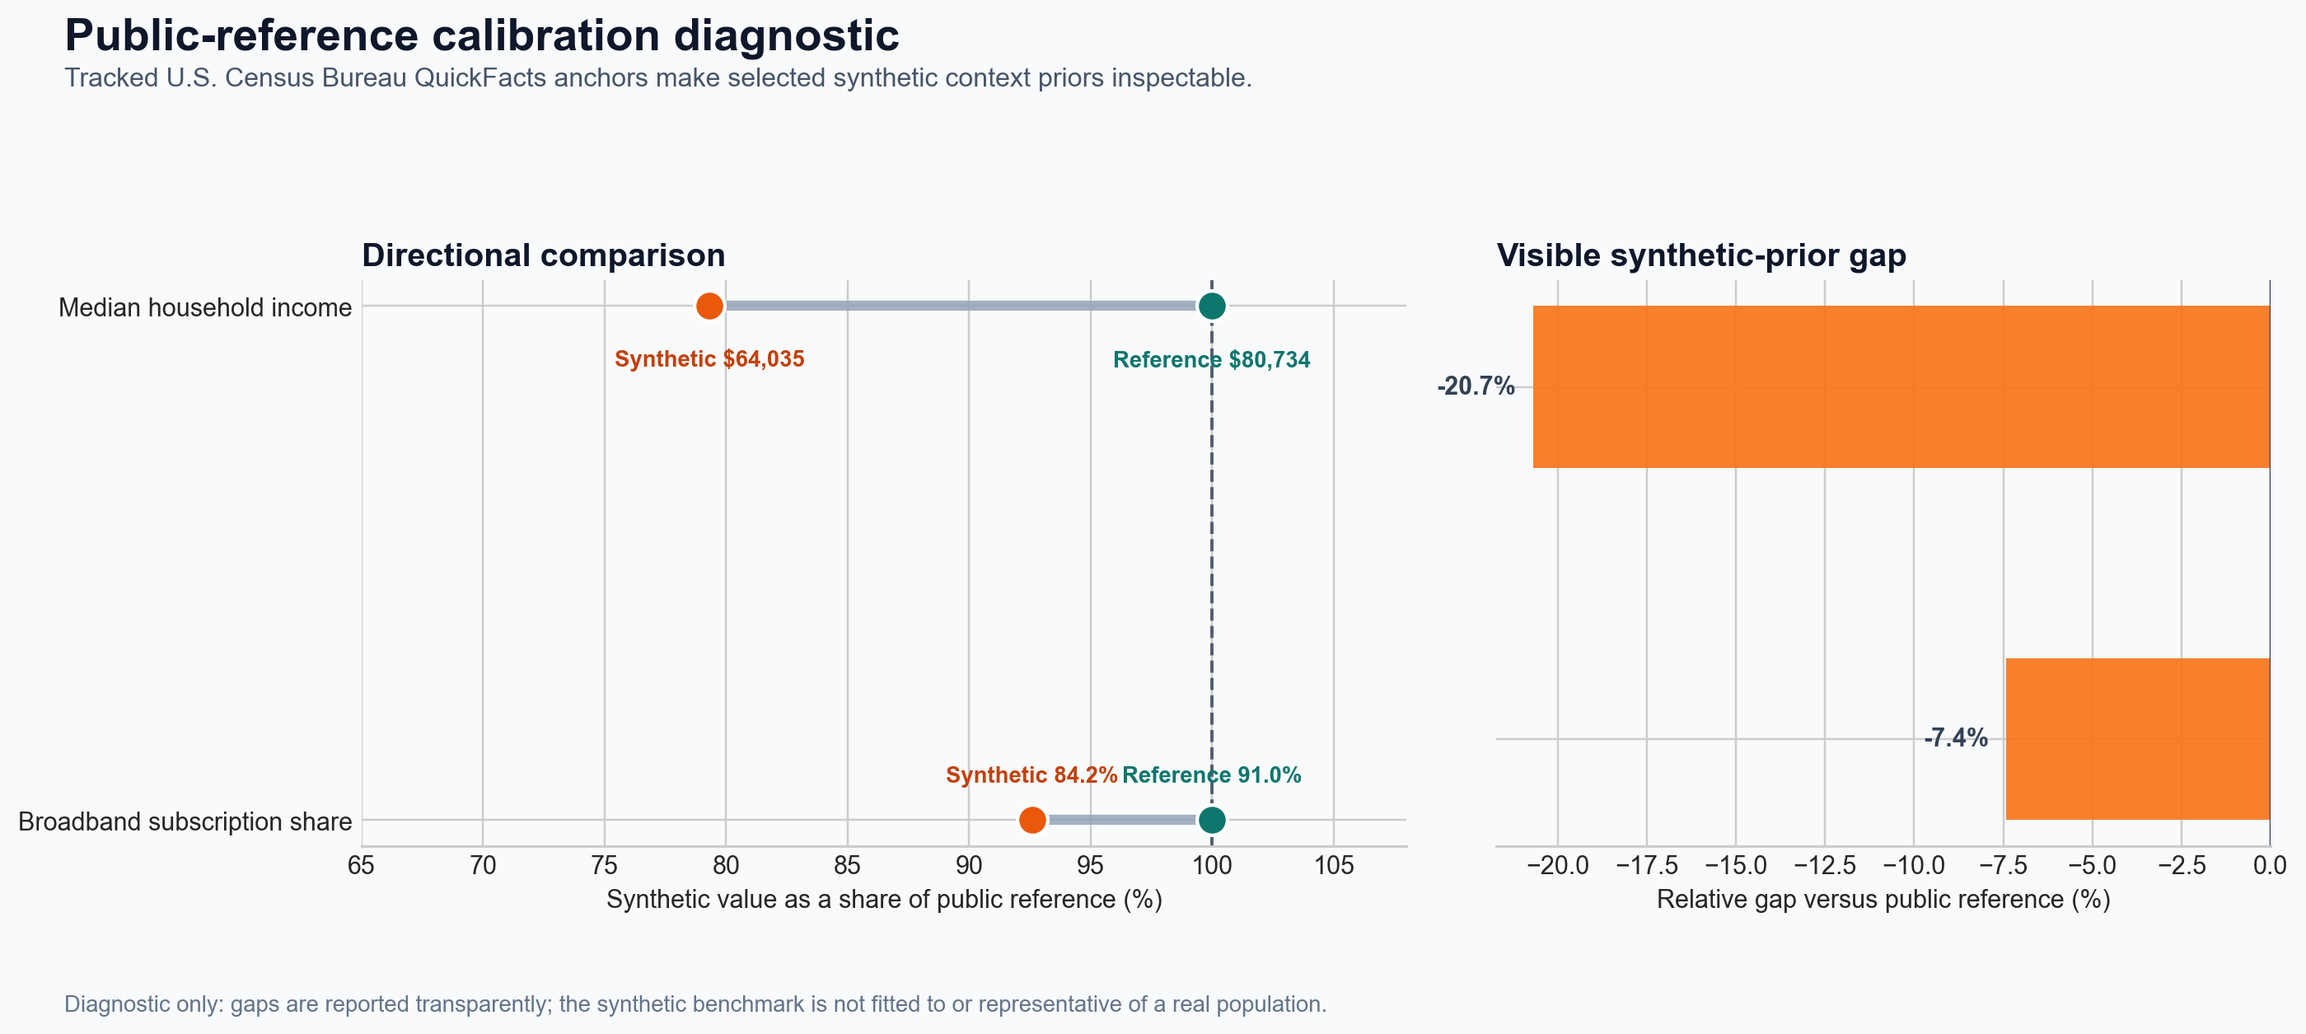
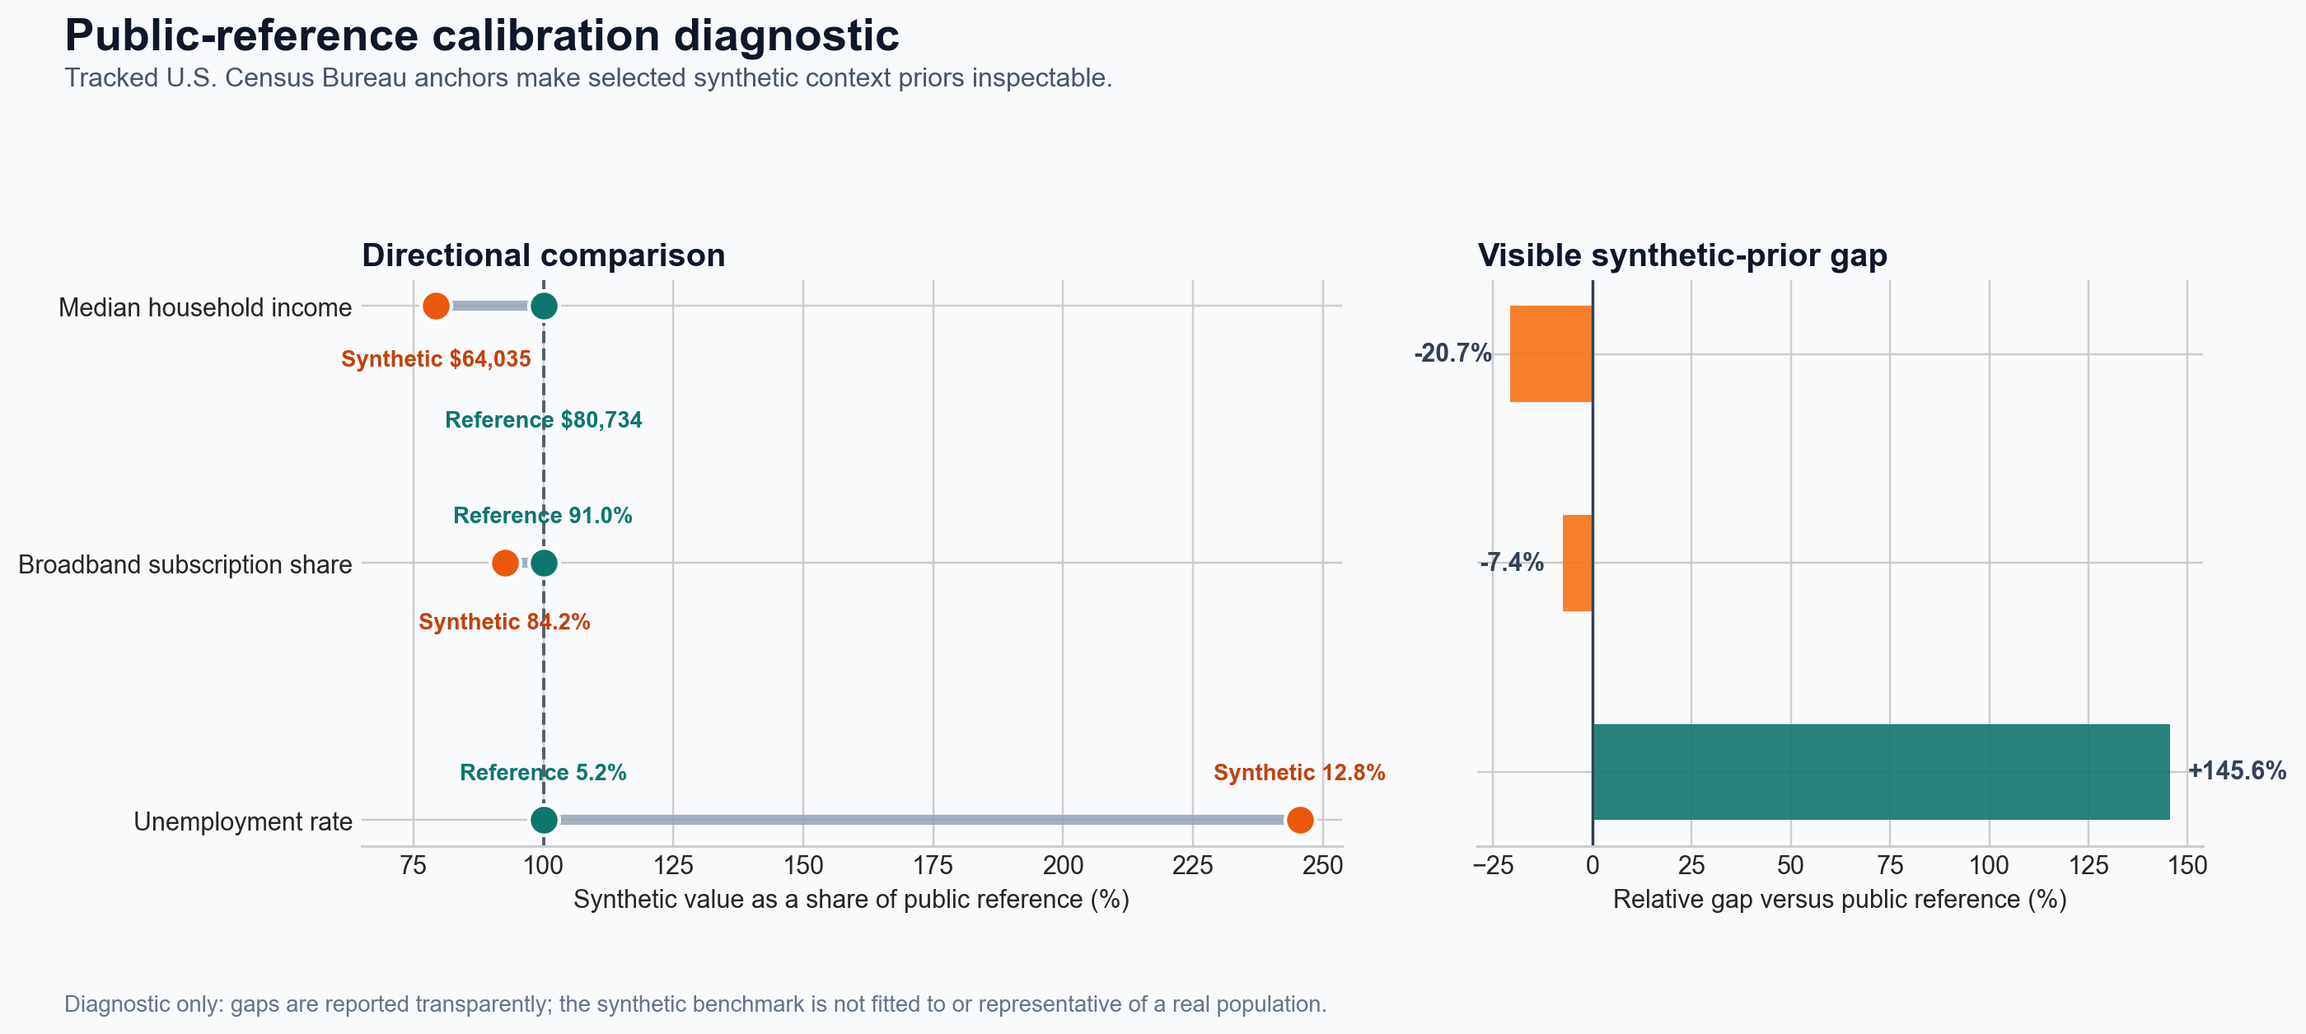
Expand public-reference calibration coverage
Add a third versioned Census Bureau anchor and expose synthetic-prior gaps transparently.

diff --git a/tests/test_public_reference_calibration.py b/tests/test_public_reference_calibration.py
@@ -35,6 +35,19 @@ def _targets() -> pd.DataFrame:
                 "retrieved_on": "2026-05-31",
                 "notes": "test target",
             },
+            {
+                "metric": "unemployment_rate",
+                "display_name": "Unemployment rate",
+                "synthetic_column": "unemployment_rate",
+                "aggregation": "population_weighted_mean",
+                "reference_value": 0.052,
+                "unit": "share",
+                "source_name": "U.S. Census Bureau ACS 5-Year Data Profile DP03",
+                "source_period": "2020-2024",
+                "source_url": "https://data.census.gov/table/example",
+                "retrieved_on": "2026-06-01",
+                "notes": "test target",
+            },
         ]
     )
 
@@ -45,6 +58,7 @@ def _communities() -> pd.DataFrame:
             "population": [1, 3],
             "median_income": [50000, 70000],
             "broadband_access": [0.60, 1.00],
+            "unemployment_rate": [0.04, 0.08],
         }
     )
 
@@ -54,6 +68,35 @@ def test_population_weighted_mean() -> None:
         [10, 20],
         [1, 3],
     ) == pytest.approx(17.5)
+
+
+def test_load_public_reference_targets_accepts_documented_census_sources(
+    tmp_path: Path,
+) -> None:
+    targets_path = tmp_path / "public_reference_targets.csv"
+    _targets().to_csv(targets_path, index=False)
+
+    targets = public_reference_calibration.load_public_reference_targets(targets_path)
+
+    assert set(targets["metric"]) == {
+        "median_household_income",
+        "broadband_subscription_share",
+        "unemployment_rate",
+    }
+
+
+def test_load_public_reference_targets_rejects_undocumented_source(
+    tmp_path: Path,
+) -> None:
+    targets_path = tmp_path / "public_reference_targets.csv"
+    targets = _targets()
+    targets.loc[targets["metric"] == "unemployment_rate", "source_url"] = (
+        "https://example.com/table"
+    )
+    targets.to_csv(targets_path, index=False)
+
+    with pytest.raises(ValueError, match="documented Census sources"):
+        public_reference_calibration.load_public_reference_targets(targets_path)
 
 
 def test_build_public_reference_comparison() -> None:
@@ -69,6 +112,9 @@ def test_build_public_reference_comparison() -> None:
         "broadband_subscription_share",
         "synthetic_as_share_of_reference",
     ] == pytest.approx(0.9 / 0.9)
+    assert comparison.loc["unemployment_rate", "synthetic_value"] == pytest.approx(
+        0.07
+    )
 
 
 def test_plot_public_reference_comparison(tmp_path: Path) -> None:

diff --git a/fairprivacysignal/public_reference_calibration.py b/fairprivacysignal/public_reference_calibration.py
@@ -9,6 +9,10 @@ import pandas as pd
 
 
 SUPPORTED_AGGREGATIONS = {"population_weighted_mean"}
+CENSUS_SOURCE_PREFIXES = (
+    "https://www.census.gov/",
+    "https://data.census.gov/",
+)
 REQUIRED_TARGET_COLUMNS = {
     "metric",
     "display_name",
@@ -50,7 +54,7 @@ def load_public_reference_targets(path: Path) -> pd.DataFrame:
         raise ValueError("public reference target metric names must be unique")
     if not set(targets["aggregation"]).issubset(SUPPORTED_AGGREGATIONS):
         raise ValueError("public reference targets contain an unsupported aggregation")
-    if not (targets["source_url"].str.startswith("https://www.census.gov/")).all():
+    if not targets["source_url"].str.startswith(CENSUS_SOURCE_PREFIXES).all():
         raise ValueError("public reference targets must use documented Census sources")
 
     reference_values = targets["reference_value"].to_numpy(dtype=float)
@@ -135,7 +139,12 @@ def plot_public_reference_comparison(
         synthetic_percent,
         plot_frame.iterrows(),
     ):
-        label_offset = -24 if position == positions.max() else 15
+        if position == positions.max():
+            synthetic_label_offset = -24
+            reference_label_offset = -48
+        else:
+            synthetic_label_offset = -26 if position > positions.min() else 16
+            reference_label_offset = 16
         ratio_axis.plot(
             [synthetic_value, 100],
             [position, position],
@@ -165,7 +174,7 @@ def plot_public_reference_comparison(
         ratio_axis.annotate(
             f"Synthetic {_format_value(row['synthetic_value'], row['unit'])}",
             (synthetic_value, position),
-            xytext=(0, label_offset),
+            xytext=(0, synthetic_label_offset),
             textcoords="offset points",
             ha="center",
             fontsize=9,
@@ -175,7 +184,7 @@ def plot_public_reference_comparison(
         ratio_axis.annotate(
             f"Reference {_format_value(row['reference_value'], row['unit'])}",
             (100, position),
-            xytext=(0, label_offset),
+            xytext=(0, reference_label_offset),
             textcoords="offset points",
             ha="center",
             fontsize=9,
@@ -245,7 +254,7 @@ def plot_public_reference_comparison(
     fig.text(
         0.07,
         0.915,
-        "Tracked U.S. Census Bureau QuickFacts anchors make selected synthetic "
+        "Tracked U.S. Census Bureau anchors make selected synthetic "
         "context priors inspectable.",
         ha="left",
         fontsize=10.5,

diff --git a/fairprivacysignal/benchmark_card.py b/fairprivacysignal/benchmark_card.py
@@ -94,6 +94,7 @@ def build_benchmark_card(
     households: pd.DataFrame,
     events: pd.DataFrame,
     signal_loss: pd.DataFrame,
+    public_reference: pd.DataFrame,
     multiseed_recovery_raw: pd.DataFrame,
     recovery_summary: pd.DataFrame,
     multiseed_capacity_raw: pd.DataFrame,
@@ -205,6 +206,12 @@ def build_benchmark_card(
             "Coverage": "training households only before holdout scoring",
         },
         {
+            "Diagnostic": "Public-reference calibration",
+            "Coverage": (
+                f"{public_reference['metric'].nunique()} versioned Census Bureau anchors"
+            ),
+        },
+        {
             "Diagnostic": "Validation gate",
             "Coverage": (
                 f"{len(required_checks)} required checks; "
@@ -276,6 +283,9 @@ def main() -> None:
         households=pd.read_csv(data_dir / "synthetic_households.csv"),
         events=pd.read_csv(data_dir / "synthetic_outreach_events.csv"),
         signal_loss=pd.read_csv(tables_dir / "signal_loss_summary.csv"),
+        public_reference=pd.read_csv(
+            tables_dir / "public_reference_calibration.csv"
+        ),
         multiseed_recovery_raw=pd.read_csv(
             tables_dir / "multiseed_privacy_recovery_raw.csv"
         ),

diff --git a/tests/test_benchmark_validation.py b/tests/test_benchmark_validation.py
@@ -69,15 +69,17 @@ def _public_reference() -> pd.DataFrame:
             "metric": [
                 "median_household_income",
                 "broadband_subscription_share",
+                "unemployment_rate",
             ],
-            "reference_value": [80734, 0.91],
-            "synthetic_value": [65000, 0.80],
-            "synthetic_minus_reference": [-15734, -0.11],
-            "relative_gap_vs_reference": [-0.19, -0.12],
-            "synthetic_as_share_of_reference": [0.81, 0.88],
+            "reference_value": [80734, 0.91, 0.052],
+            "synthetic_value": [65000, 0.80, 0.07],
+            "synthetic_minus_reference": [-15734, -0.11, 0.018],
+            "relative_gap_vs_reference": [-0.19, -0.12, 0.35],
+            "synthetic_as_share_of_reference": [0.81, 0.88, 1.35],
             "source_url": [
                 "https://www.census.gov/quickfacts/example",
                 "https://www.census.gov/quickfacts/example",
+                "https://data.census.gov/table/example",
             ],
         }
     )

diff --git a/tests/test_benchmark_card.py b/tests/test_benchmark_card.py
@@ -69,6 +69,15 @@ def test_build_benchmark_card_summarizes_auditable_outputs() -> None:
         signal_loss=pd.DataFrame(
             {"scenario": ["full_signal", "severe_signal_loss"]}
         ),
+        public_reference=pd.DataFrame(
+            {
+                "metric": [
+                    "median_household_income",
+                    "broadband_subscription_share",
+                    "unemployment_rate",
+                ]
+            }
+        ),
         multiseed_recovery_raw=pd.DataFrame({"seed": [7, 42, 101]}),
         recovery_summary=recovery_summary,
         multiseed_capacity_raw=pd.DataFrame(
@@ -157,4 +166,5 @@ def test_build_benchmark_card_summarizes_auditable_outputs() -> None:
     assert "Pairwise ranking-objective sensitivity" in card
     assert "Underserved quartile recovery profile" in card
     assert "Community-held-out robustness diagnostic" in card
+    assert "3 versioned Census Bureau anchors" in card
     assert "[Limitations](limitations.md)" in card

diff --git a/fairprivacysignal/benchmark_validation.py b/fairprivacysignal/benchmark_validation.py
@@ -34,7 +34,12 @@ EXPECTED_SEEDS = {7, 11, 23, 42, 101}
 EXPECTED_PUBLIC_REFERENCE_METRICS = {
     "median_household_income",
     "broadband_subscription_share",
+    "unemployment_rate",
 }
+CENSUS_SOURCE_PREFIXES = (
+    "https://www.census.gov/",
+    "https://data.census.gov/",
+)
 EXPECTED_AGGREGATE_NOISE_SCENARIOS = {
     "severe_signal_loss",
     "policy_restricted",
@@ -301,9 +306,9 @@ def build_validation_checks(
             and np.isfinite(public_reference_values).all()
             and (public_reference["reference_value"] > 0).all()
             and public_reference["source_url"]
-            .str.startswith("https://www.census.gov/")
+            .str.startswith(CENSUS_SOURCE_PREFIXES)
             .all(),
-            "tracked Census QuickFacts targets are present with finite comparison metrics",
+            "three tracked Census Bureau targets are present with finite comparison metrics",
         )
     )
 

diff --git a/docs/public_reference_calibration.md b/docs/public_reference_calibration.md
@@ -6,16 +6,19 @@ more inspectable, not to claim that the benchmark represents a real population.
 
 ## Tracked reference snapshot
 
-The benchmark stores two national-level reference anchors in
+The benchmark stores three national-level reference anchors in
 [`config/public_reference_targets.csv`](../config/public_reference_targets.csv).
-Both values come from the [U.S. Census Bureau QuickFacts United States
-page](https://www.census.gov/quickfacts/fact/table/US/PST045225) and cover the
-2020-2024 period:
+Income and broadband values come from the [U.S. Census Bureau QuickFacts United
+States page](https://www.census.gov/quickfacts/fact/table/US/PST045225). The
+unemployment-rate value comes from the Census Bureau's [2024 ACS 5-Year Data
+Profile DP03](https://data.census.gov/table/ACSDP5Y2024.DP03?g=010XX00US). Each
+anchor covers the 2020-2024 period:
 
-| Public reference anchor | QuickFacts value | Mapped synthetic context prior |
+| Public reference anchor | Census Bureau value | Mapped synthetic context prior |
 |---|---:|---|
 | Median household income (in 2024 dollars) | $80,734 | Community-level `median_income` |
 | Households with a broadband Internet subscription | 91.0% | Community-level `broadband_access` |
+| Civilian labor force unemployment rate (`DP03_0009PE`) | 5.2% | Community-level `unemployment_rate` |
 
 The snapshot records the source URL, source period, retrieval date, and mapping used
 by the diagnostic. Keeping this small snapshot in the repository allows the
@@ -31,8 +34,10 @@ values.
 These comparisons are directional only:
 
 - the synthetic priors are community-level context variables
-- the public values are national household-level summary statistics
-- two aggregate anchors cannot establish representativeness
+- the public values are national summary statistics with different universes
+- the ACS unemployment anchor may differ from Bureau of Labor Statistics labor
+  force estimates because survey design and data collection differ
+- three aggregate anchors cannot establish representativeness
 - the comparison does not validate synthetic labels or ranking outcomes
 
 The diagnostic is useful because it makes selected synthetic assumptions explicit,

diff --git a/docs/validation_report.md b/docs/validation_report.md
@@ -16,7 +16,7 @@ This report is generated by the reproducible benchmark pipeline. Required checks
 | aggregate preprocessing is train-fitted                | reproducibility   | yes        | PASS     | aggregate features use training-household reference statistics before holdout scoring                                                  |
 | capacity allocation metrics are bounded                | allocation        | yes        | PASS     | allocation rates are in [0, 1] and allocated counts are valid                                                                          |
 | score-matched calibration has eligible bins            | calibration       | yes        | PASS     | every reported scenario has eligible bins and bounded diagnostics                                                                      |
-| public-reference calibration targets are documented    | calibration       | yes        | PASS     | tracked Census QuickFacts targets are present with finite comparison metrics                                                           |
+| public-reference calibration targets are documented    | calibration       | yes        | PASS     | three tracked Census Bureau targets are present with finite comparison metrics                                                         |
 | aggregate-noise sensitivity coverage is complete       | calibration       | yes        | PASS     | two scenarios cover five stress scales and three aggregate-noise seeds                                                                 |
 | cohort-threshold sensitivity coverage is complete      | calibration       | yes        | PASS     | two scenarios cover six k-thresholds with monotonic fallback coverage                                                                  |
 | recovery feature-ablation coverage is complete         | ranking           | yes        | PASS     | two scenarios cover four feature sets and five paired synthetic-data seeds                                                             |

diff --git a/docs/experiment_matrix.md b/docs/experiment_matrix.md
@@ -42,7 +42,7 @@ This document summarizes the current and planned FairPrivacySignal experiments.
 | Allocated relevance rate | Measure utility after service-capacity constraints are applied |
 | Selection-rate gap | Compare low-signal and not-low-signal allocation rates |
 | Score-matched subgroup calibration | Compare observed relevance for low-signal and not-low-signal events within shared predicted-score bins |
-| Public-reference calibration | Compare selected synthetic community priors with tracked Census QuickFacts anchors without automatic fitting |
+| Public-reference calibration | Compare selected synthetic community priors with tracked Census Bureau anchors without automatic fitting |
 | Aggregate-noise sensitivity | Repeat privacy-safe recovery across stress scales and noise realizations while holding the synthetic dataset fixed |
 | Cohort-threshold sensitivity | Sweep the minimum cohort size and measure fallback coverage plus utility recovery |
 | Recovery feature ablation | Compare no substitutes, engagement aggregates, cohort-context aggregates, and their combination with paired multi-seed deltas |
@@ -55,5 +55,5 @@ This document summarizes the current and planned FairPrivacySignal experiments.
 
 | Planned experiment | Purpose |
 |---|---|
-| Expanded public-reference coverage | Add carefully mapped public aggregate anchors while preserving explicit limitations |
+| Public-reference uncertainty metadata | Add source-universe and uncertainty details while preserving explicit limitations |
 | Listwise ranking-objective extension | Extend the lightweight pairwise comparator with a listwise sensitivity check |

diff --git a/docs/benchmark_design.md b/docs/benchmark_design.md
@@ -95,9 +95,9 @@ Service-specific engagement is intentionally important because it allows signal 
 ## 5. Public-Reference Calibration Diagnostic
 
 The benchmark compares selected synthetic community-context priors against a
-tracked U.S. Census Bureau QuickFacts snapshot. The current diagnostic reports
-population-weighted synthetic averages for median income and broadband access
-alongside national public-reference anchors.
+tracked U.S. Census Bureau snapshot. The current diagnostic reports
+population-weighted synthetic averages for median income, broadband access, and
+unemployment rate alongside national public-reference anchors.
 
 This comparison exposes synthetic-prior gaps without automatically fitting the
 generator to public values. It is directional only: community-level synthetic
@@ -313,7 +313,7 @@ FairPrivacySignal does not claim that:
 Near-term planned extensions include:
 
 1. extending the lightweight pairwise comparator with a listwise sensitivity check
-2. expanding public-reference coverage while keeping mappings explicit
+2. adding public-reference uncertainty metadata while keeping mappings explicit
 3. improving the technical whitepaper for independent expert review
 
 ## 14. Why This Matters

diff --git a/README.md b/README.md
@@ -33,7 +33,7 @@ The same technical pattern can apply to public agencies, healthcare outreach, no
 - Fairness metrics for low-signal or underserved participants
 - Fairness-aware recovery variants for low-signal ranking diagnostics
 - Score-matched subgroup calibration diagnostics
-- Public-reference calibration diagnostic with a tracked Census QuickFacts snapshot
+- Public-reference calibration diagnostic with a tracked Census Bureau snapshot
 - Capacity-constrained allocation under limited outreach slots
 - Multi-seed allocation sensitivity analysis
 - Privacy exposure scoring
@@ -125,7 +125,7 @@ This overview combines multi-seed recovery results with the capacity-constrained
 ![Public-reference calibration diagnostic](docs/assets/public_reference_calibration.png)
 
 The benchmark compares selected synthetic context priors with a tracked U.S. Census
-Bureau QuickFacts snapshot. The visible gaps are intentional: this is a directional
+Bureau snapshot. The visible gaps are intentional: this is a directional
 diagnostic, not an automatic fit or a claim that the synthetic benchmark represents
 a real population. See [`docs/public_reference_calibration.md`](docs/public_reference_calibration.md).
 

diff --git a/docs/technical_summary.md b/docs/technical_summary.md
@@ -67,7 +67,7 @@ FairPrivacySignal currently includes:
     Enforces stable methodological invariants and writes a reviewer-readable validation report.
 
 13. **Public-reference calibration diagnostic**
-    Compares selected synthetic community priors with tracked Census QuickFacts anchors
+    Compares selected synthetic community priors with tracked Census Bureau anchors
     while reporting gaps rather than automatically fitting the generator.
 
 14. **Aggregate-noise sensitivity analysis**
@@ -164,6 +164,6 @@ The broader goal is to make privacy-preserving and fairness-aware ranking evalua
 Planned improvements include:
 
 - expanding synthetic scenarios beyond public-service outreach
-- expanding public-reference coverage with explicit synthetic-to-public mappings
+- adding public-reference uncertainty metadata with explicit synthetic-to-public mappings
 - improving documentation for independent technical review
 - collecting external expert feedback
